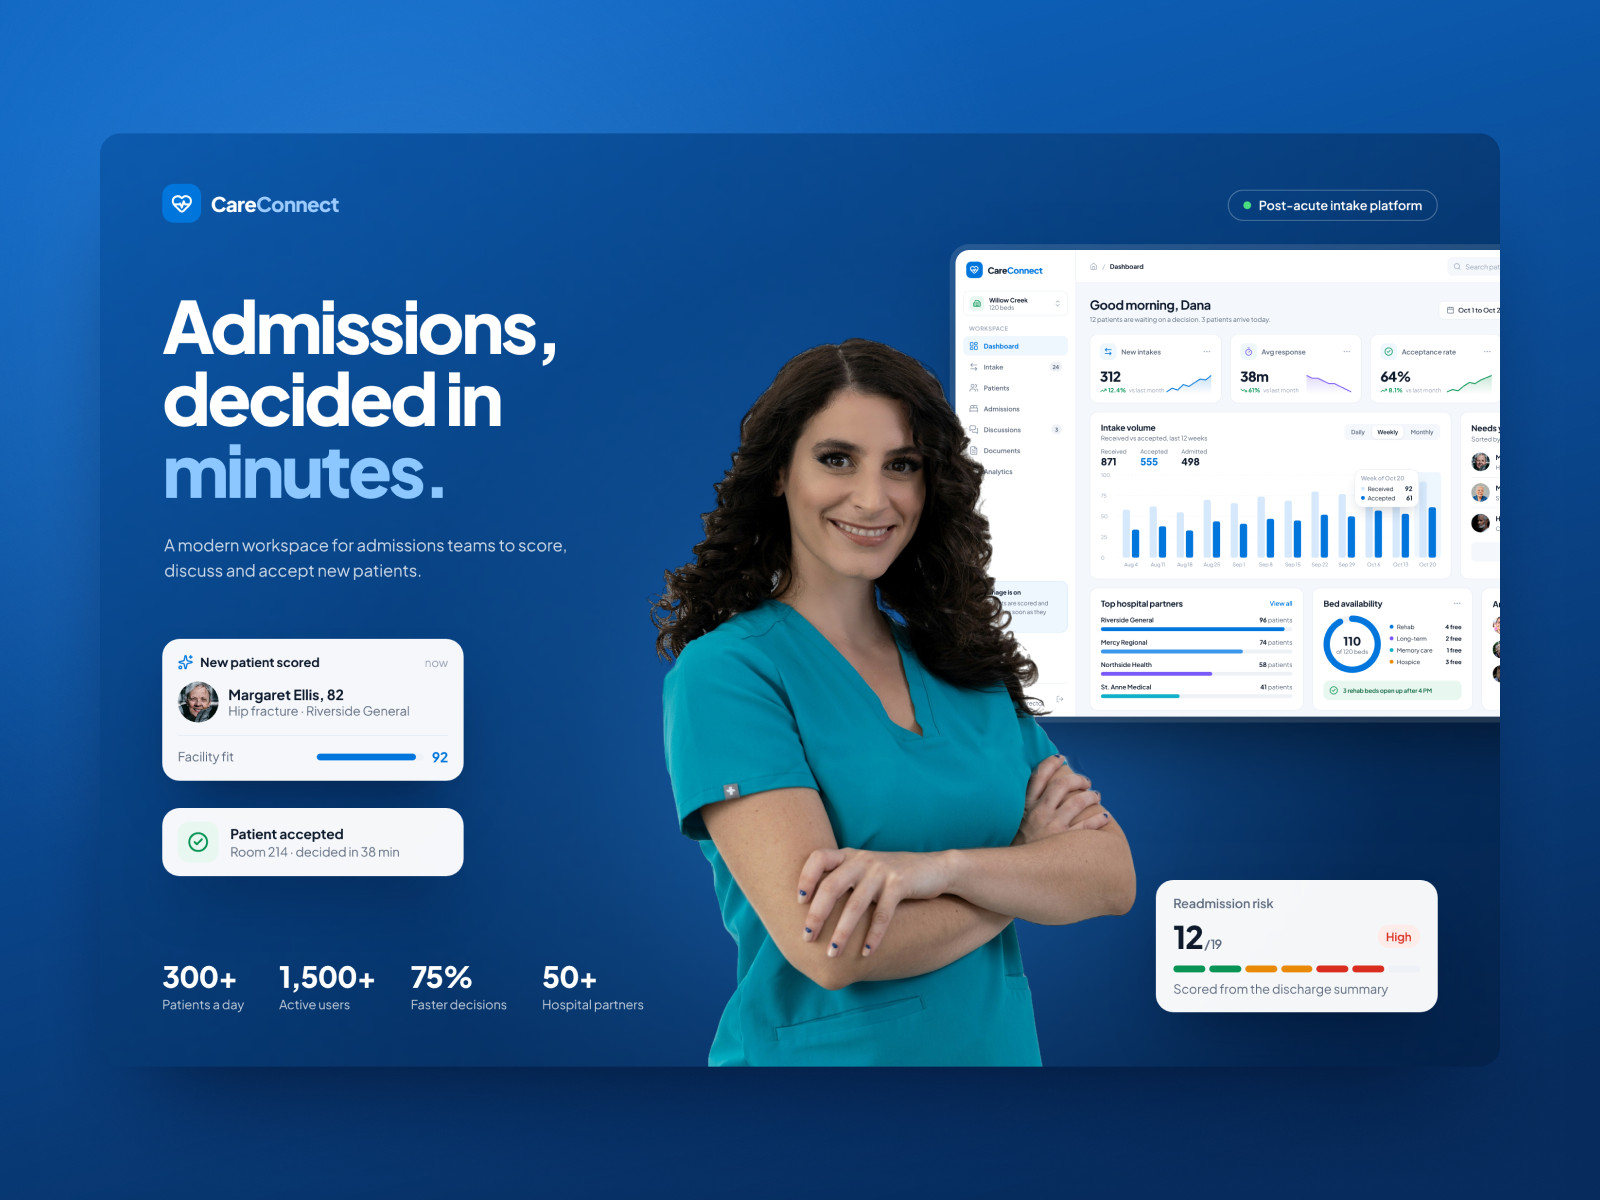
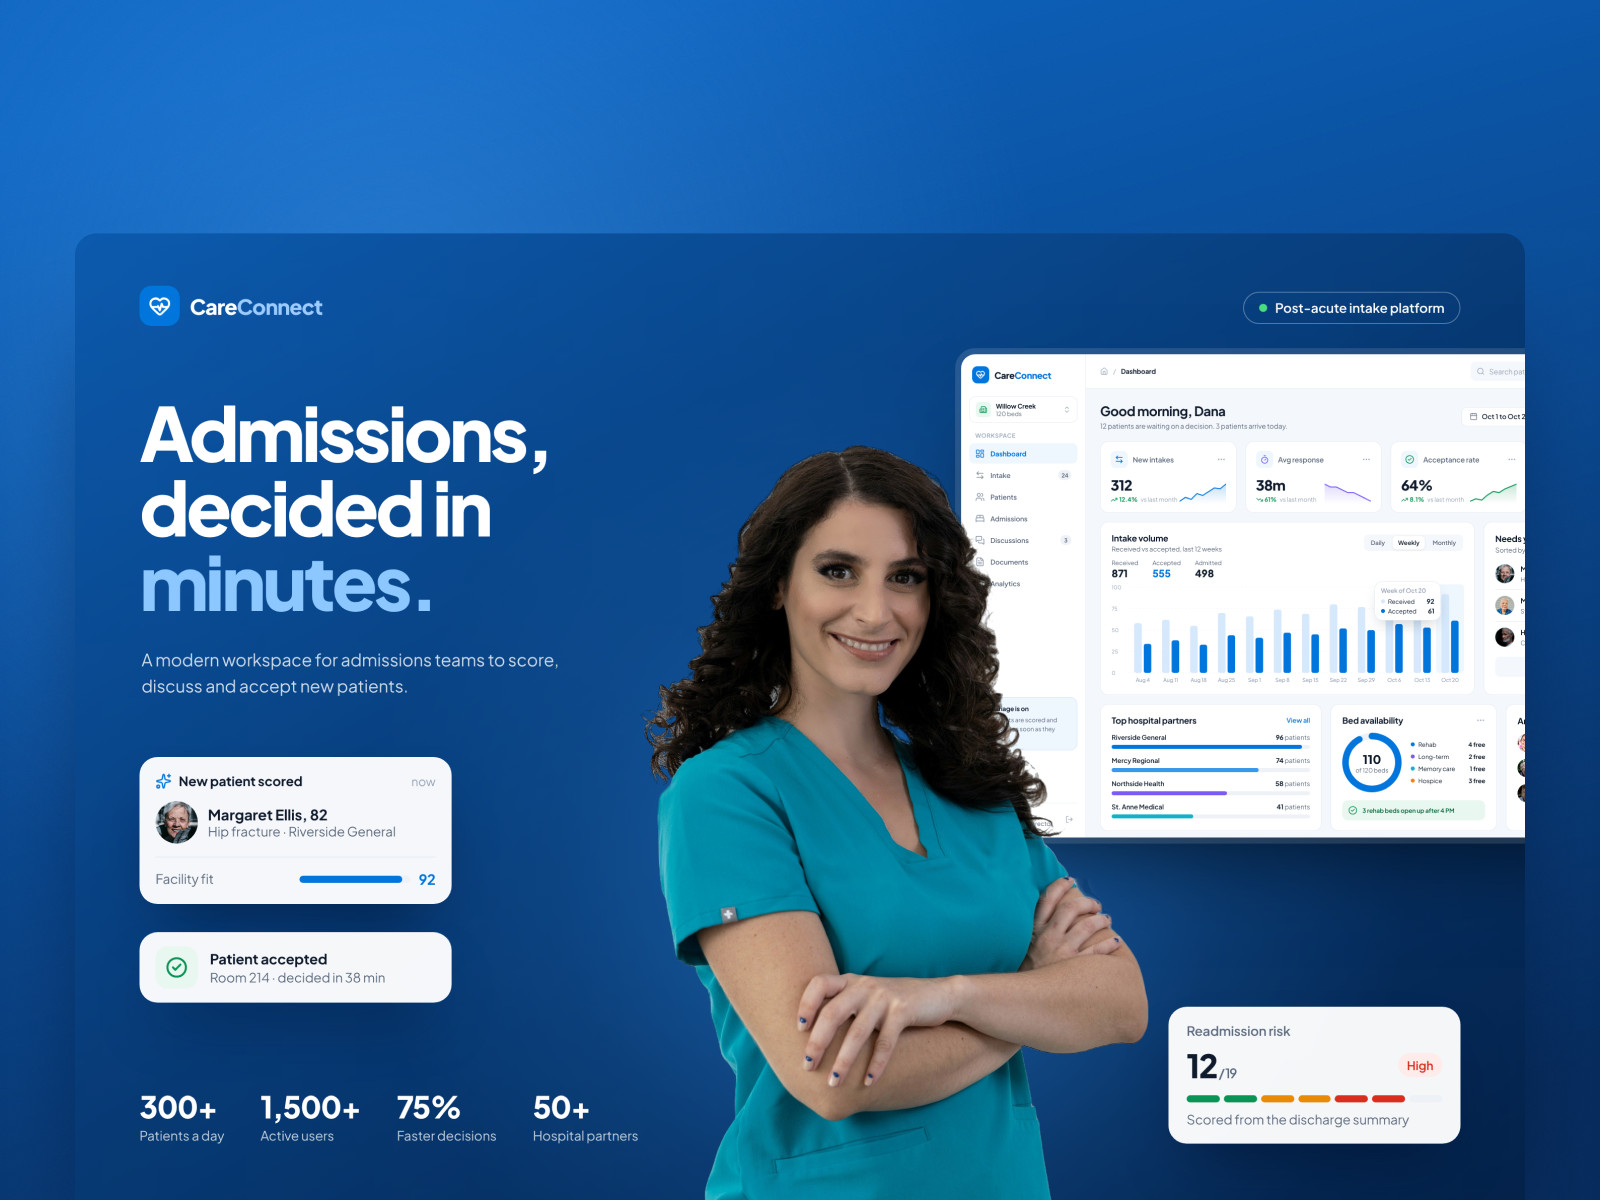
Care Connect hero: the UI runs into the bottom edge
Like the Surgo hero: even blue margins at the top and sides, and the
product panel meeting the bottom edge with square bottom corners. The
cover and card image follow the same layout at 4:3.

Claude-Session: https://claude.ai/code/session_011BdSE2fEeiEv9ZgoYmWAPn

diff --git a/src/content/seed-data.ts b/src/content/seed-data.ts
@@ -1030,7 +1030,7 @@ const GALLERIES: Record<string, ReturnType<typeof workGallery>> = {
     {
       alt: "The Care Connect home page: admissions, decided in minutes",
       width: 2400,
-      height: 1800,
+      height: 1529,
       hotspot: { x: 0.5, y: 0.5 },
       size: "original",
     },
